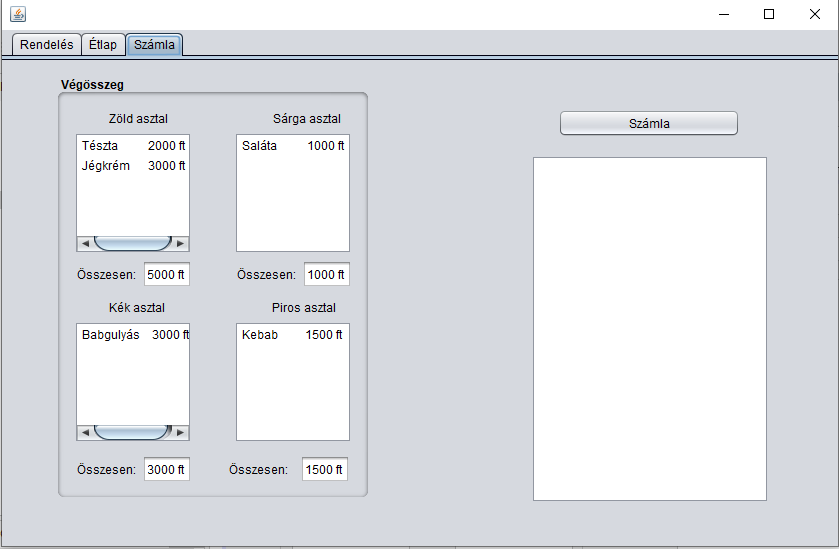
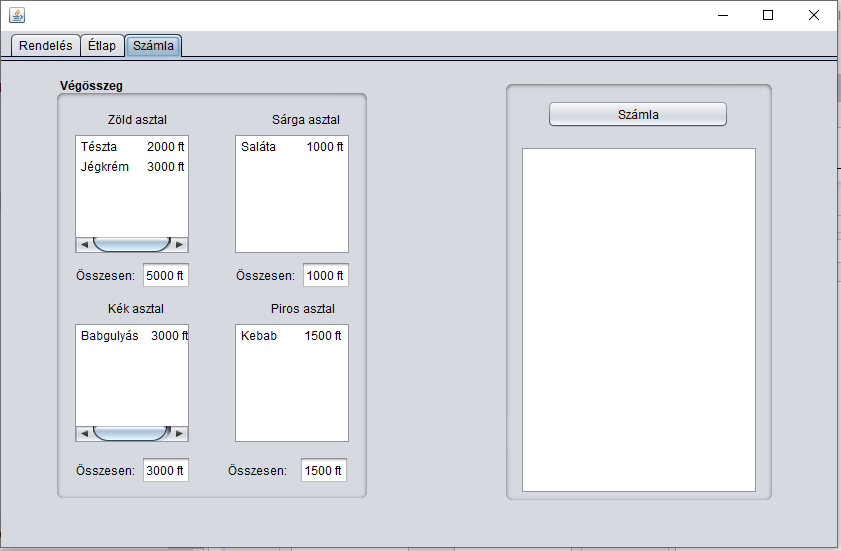
panel border

diff --git a/src/rendeles/Rendeles.java b/src/rendeles/Rendeles.java
@@ -605,6 +605,8 @@ public class Rendeles extends javax.swing.JFrame {
                 .addContainerGap())
         );
 
+        jPanel2.setBorder(javax.swing.BorderFactory.createTitledBorder(""));
+
         jTextArea1.setColumns(20);
         jTextArea1.setRows(5);
         jScrollPane15.setViewportView(jTextArea1);
@@ -640,7 +642,7 @@ public class Rendeles extends javax.swing.JFrame {
             .addGroup(jPanel10Layout.createSequentialGroup()
                 .addGap(52, 52, 52)
                 .addComponent(jPanel1, javax.swing.GroupLayout.PREFERRED_SIZE, javax.swing.GroupLayout.DEFAULT_SIZE, javax.swing.GroupLayout.PREFERRED_SIZE)
-                .addPreferredGap(javax.swing.LayoutStyle.ComponentPlacement.RELATED, 86, Short.MAX_VALUE)
+                .addPreferredGap(javax.swing.LayoutStyle.ComponentPlacement.RELATED, 84, Short.MAX_VALUE)
                 .addComponent(jPanel2, javax.swing.GroupLayout.PREFERRED_SIZE, javax.swing.GroupLayout.DEFAULT_SIZE, javax.swing.GroupLayout.PREFERRED_SIZE)
                 .addGap(63, 63, 63))
         );
@@ -651,7 +653,7 @@ public class Rendeles extends javax.swing.JFrame {
                 .addGroup(jPanel10Layout.createParallelGroup(javax.swing.GroupLayout.Alignment.TRAILING)
                     .addComponent(jPanel2, javax.swing.GroupLayout.PREFERRED_SIZE, javax.swing.GroupLayout.DEFAULT_SIZE, javax.swing.GroupLayout.PREFERRED_SIZE)
                     .addComponent(jPanel1, javax.swing.GroupLayout.PREFERRED_SIZE, javax.swing.GroupLayout.DEFAULT_SIZE, javax.swing.GroupLayout.PREFERRED_SIZE))
-                .addContainerGap(17, Short.MAX_VALUE))
+                .addContainerGap(javax.swing.GroupLayout.DEFAULT_SIZE, Short.MAX_VALUE))
         );
 
         jTabbedPane1.addTab("Számla", jPanel10);
